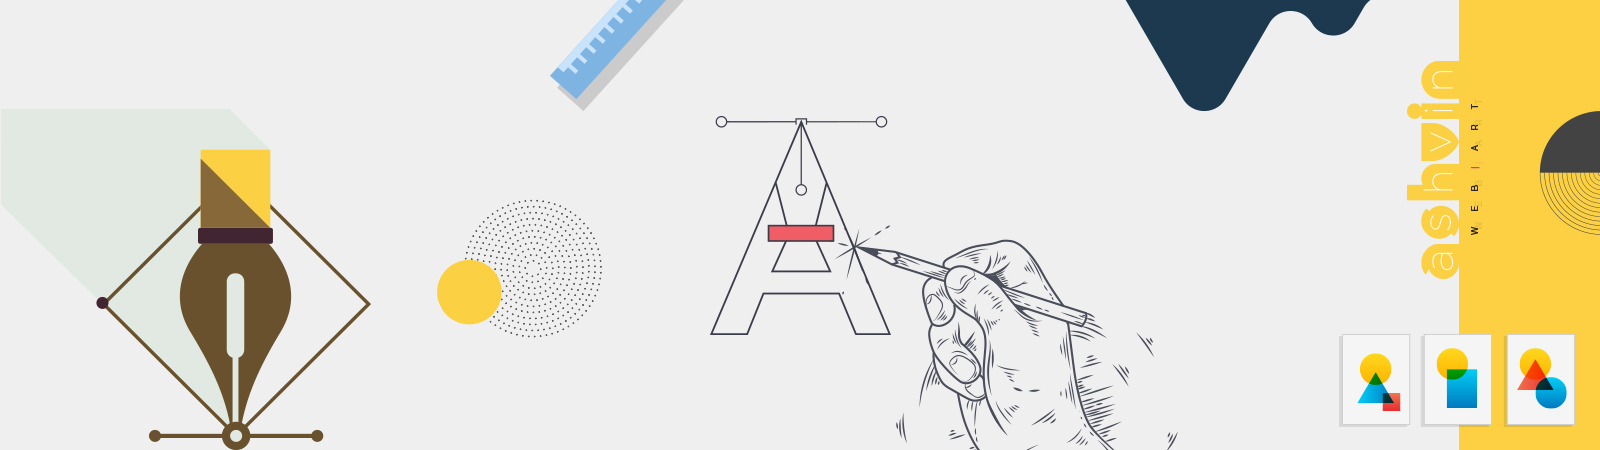
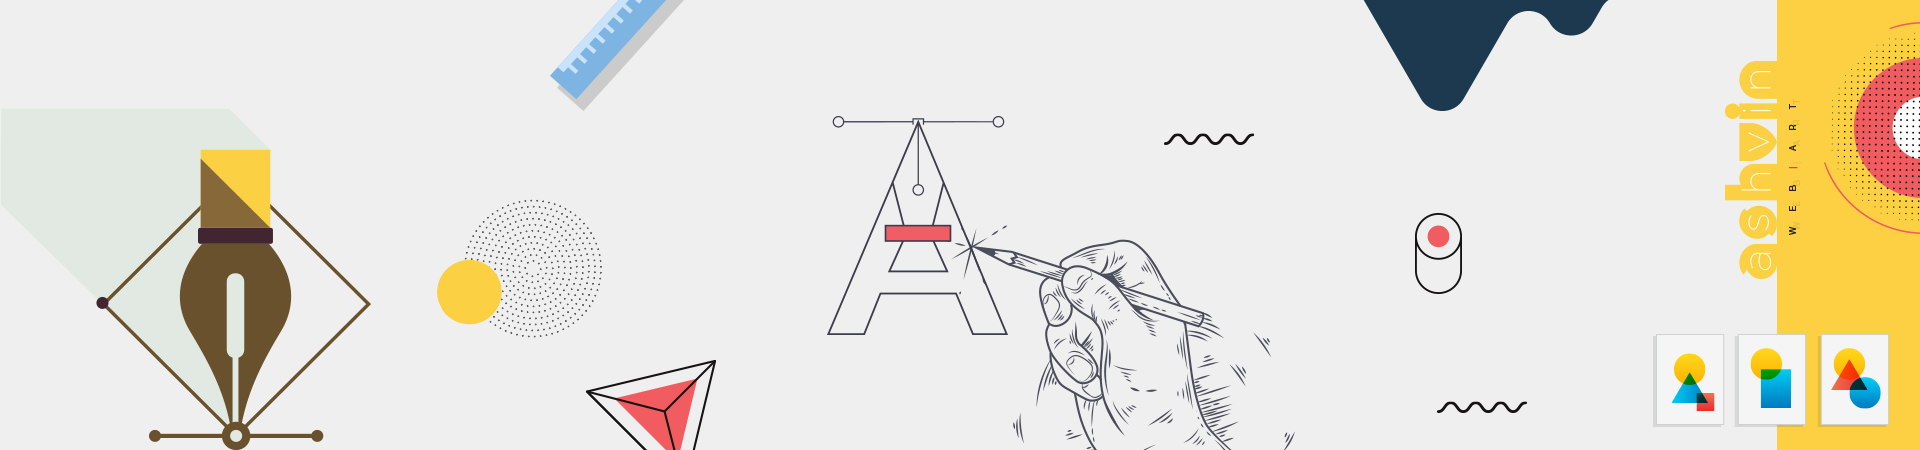
Changed Portfolio Slider

diff --git a/portfolio.html b/portfolio.html
@@ -574,7 +574,7 @@
 		function headerHeight() {
 			var target = document.querySelector('.page-folio #awa-header');
 			var xw = target.clientWidth;
-			var nh = (xw * 450) / 1600;
+			var nh = (xw * 450) / 1920;
 			target.style.height = nh + 'px';
 		}
 		headerHeight();

diff --git a/css/portfolio.css b/css/portfolio.css
@@ -65,7 +65,7 @@
     height: 540px;
     overflow: hidden;
     background-image: url(../images/awa-folio-cover.jpg);
-    background-size: cover;
+    background-size: 100%;
     background-repeat: no-repeat;
 }
 
